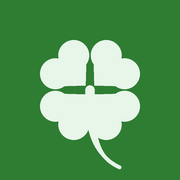
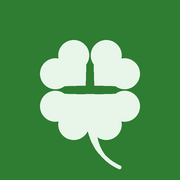
Stalk top level with the lower leaves
Claude-Session: https://claude.ai/code/session_019FLf5ozKn5W5xxfYeNsCSc

Changed region(s): [[0.4722, 0.7222, 0.6111, 0.9167], [0.4722, 0.4722, 0.5278, 0.5278]]

diff --git a/sw.js b/sw.js
@@ -1,6 +1,6 @@
 // Lucky Green service worker: keeps the app working offline.
 // Change VERSION with every update so phones pick up the new files.
-const VERSION = 'lucky-green-2026.11.18.4';
+const VERSION = 'lucky-green-2026.11.18.5';
 const FILES = ['./', './index.html', './manifest.json', './icon-192.png', './icon-512.png', './apple-touch-icon.png'];
 
 self.addEventListener('install', e => {

diff --git a/index.html b/index.html
@@ -109,7 +109,7 @@ nav button.on .ic{transform:scale(1.1)}
 
 <script>
 'use strict';
-const APP_VERSION = '2026.11.18.4';
+const APP_VERSION = '2026.11.18.5';
 const STORE_KEY = 'luckygreen.v1';
 
 /* ---------- Storage (everything stays on this phone) ---------- */
